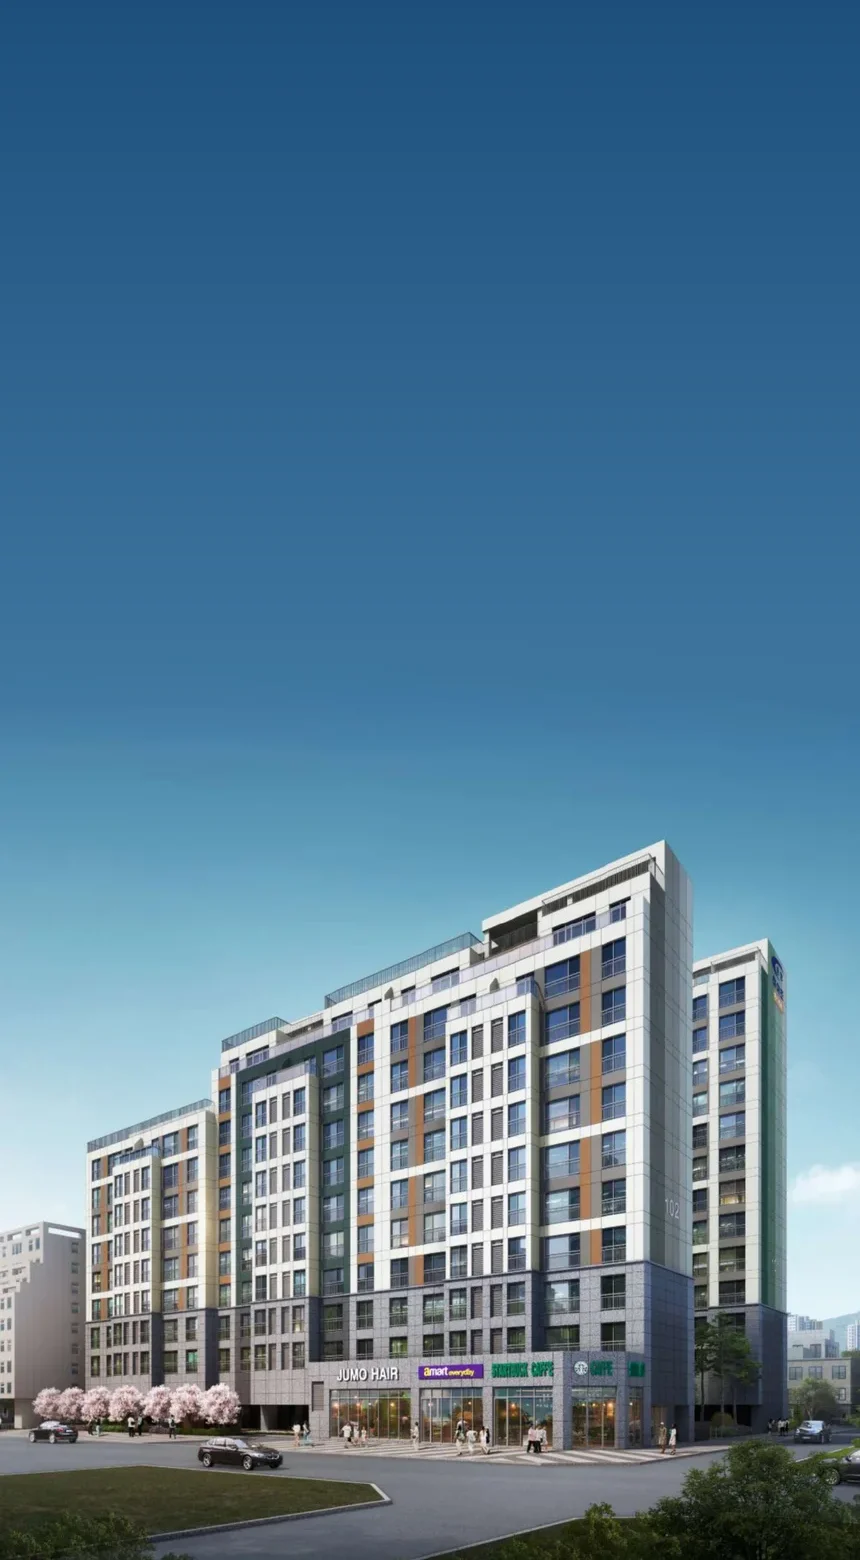
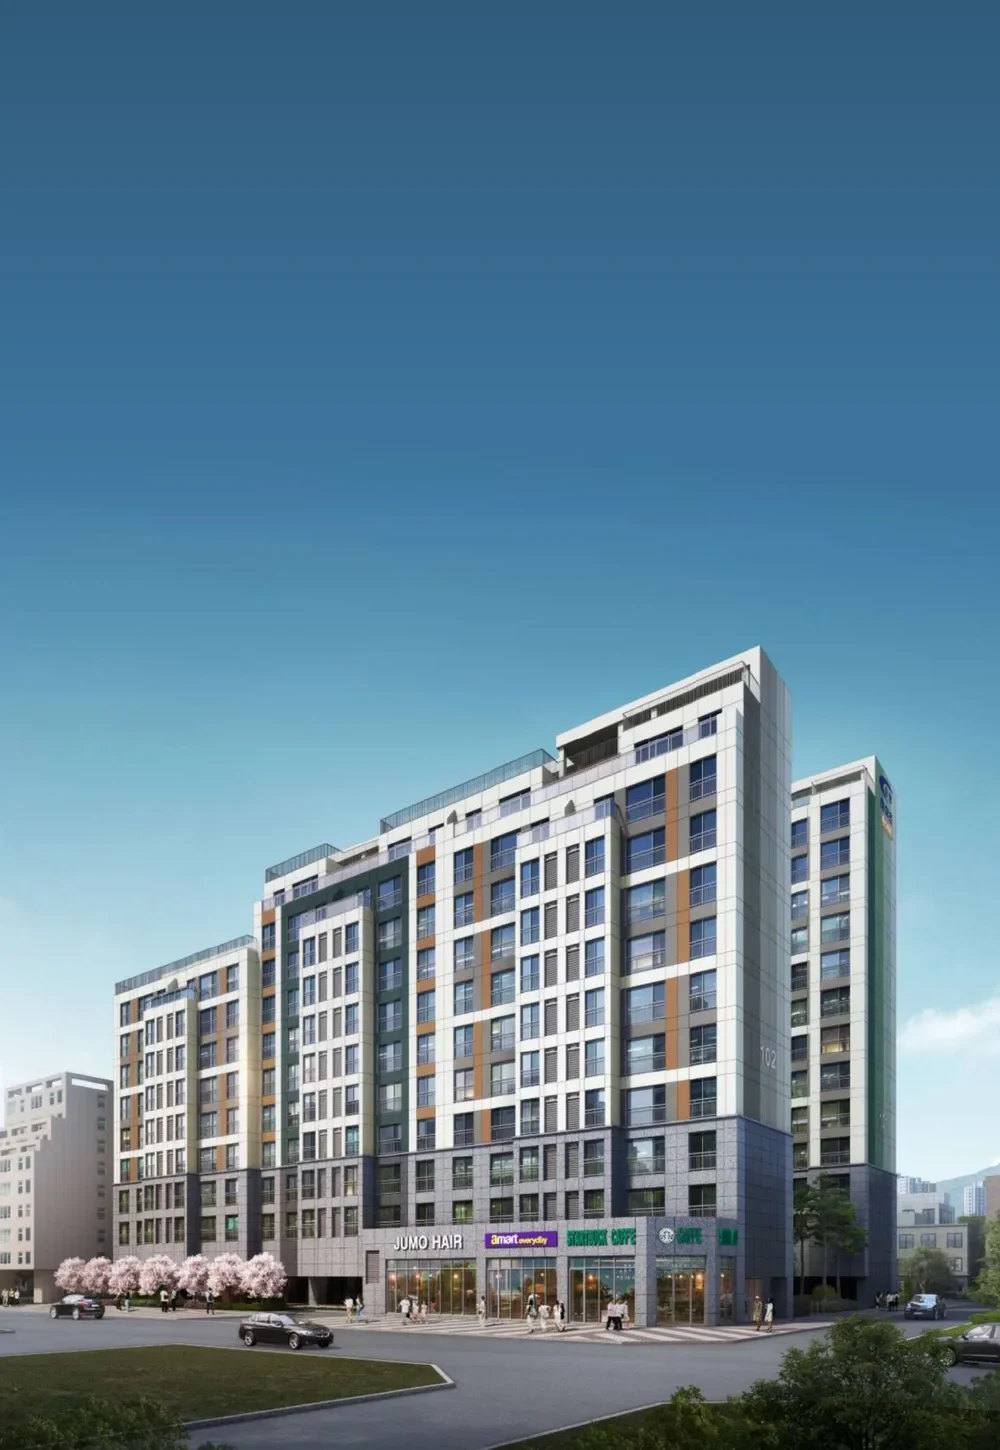
fix: 여월 모바일 히어로 새 이미지 내용·경로 및 하단 여백 반영

diff --git a/adaptive-landing/data/sites/yeowol-jungang-heights-arbiche.js b/adaptive-landing/data/sites/yeowol-jungang-heights-arbiche.js
@@ -118,6 +118,8 @@ const config = {
     hero: {
       hideText: true,
       mobileScrollMouse: true,
+      // 모바일 배경 하단을 안내 바(약 36px) 위에서 끝내 건물 아랫부분이 가리지 않게
+      mobileBgBottomInset: 36,
       overlayGradient: {
         mobile: 'linear-gradient(180deg, rgba(10, 22, 56, 0.6) 0%, rgba(10, 22, 56, 0.22) 34%, rgba(10, 22, 56, 0) 52%)',
         desktop: 'linear-gradient(180deg, rgba(10, 22, 56, 0.62) 0%, rgba(10, 22, 56, 0.28) 32%, rgba(10, 22, 56, 0) 55%)',
@@ -127,7 +129,7 @@ const config = {
         alt: '여월 중앙하이츠 아르비채 투시도',
       },
       bgImageMobile: {
-        src: '/apt/yeowol-jungang-heights-arbiche/hero-m.webp',
+        src: '/apt/yeowol-jungang-heights-arbiche/hero-mobile.webp',
         alt: '여월 중앙하이츠 아르비채 투시도',
       },
       estCopy: {
